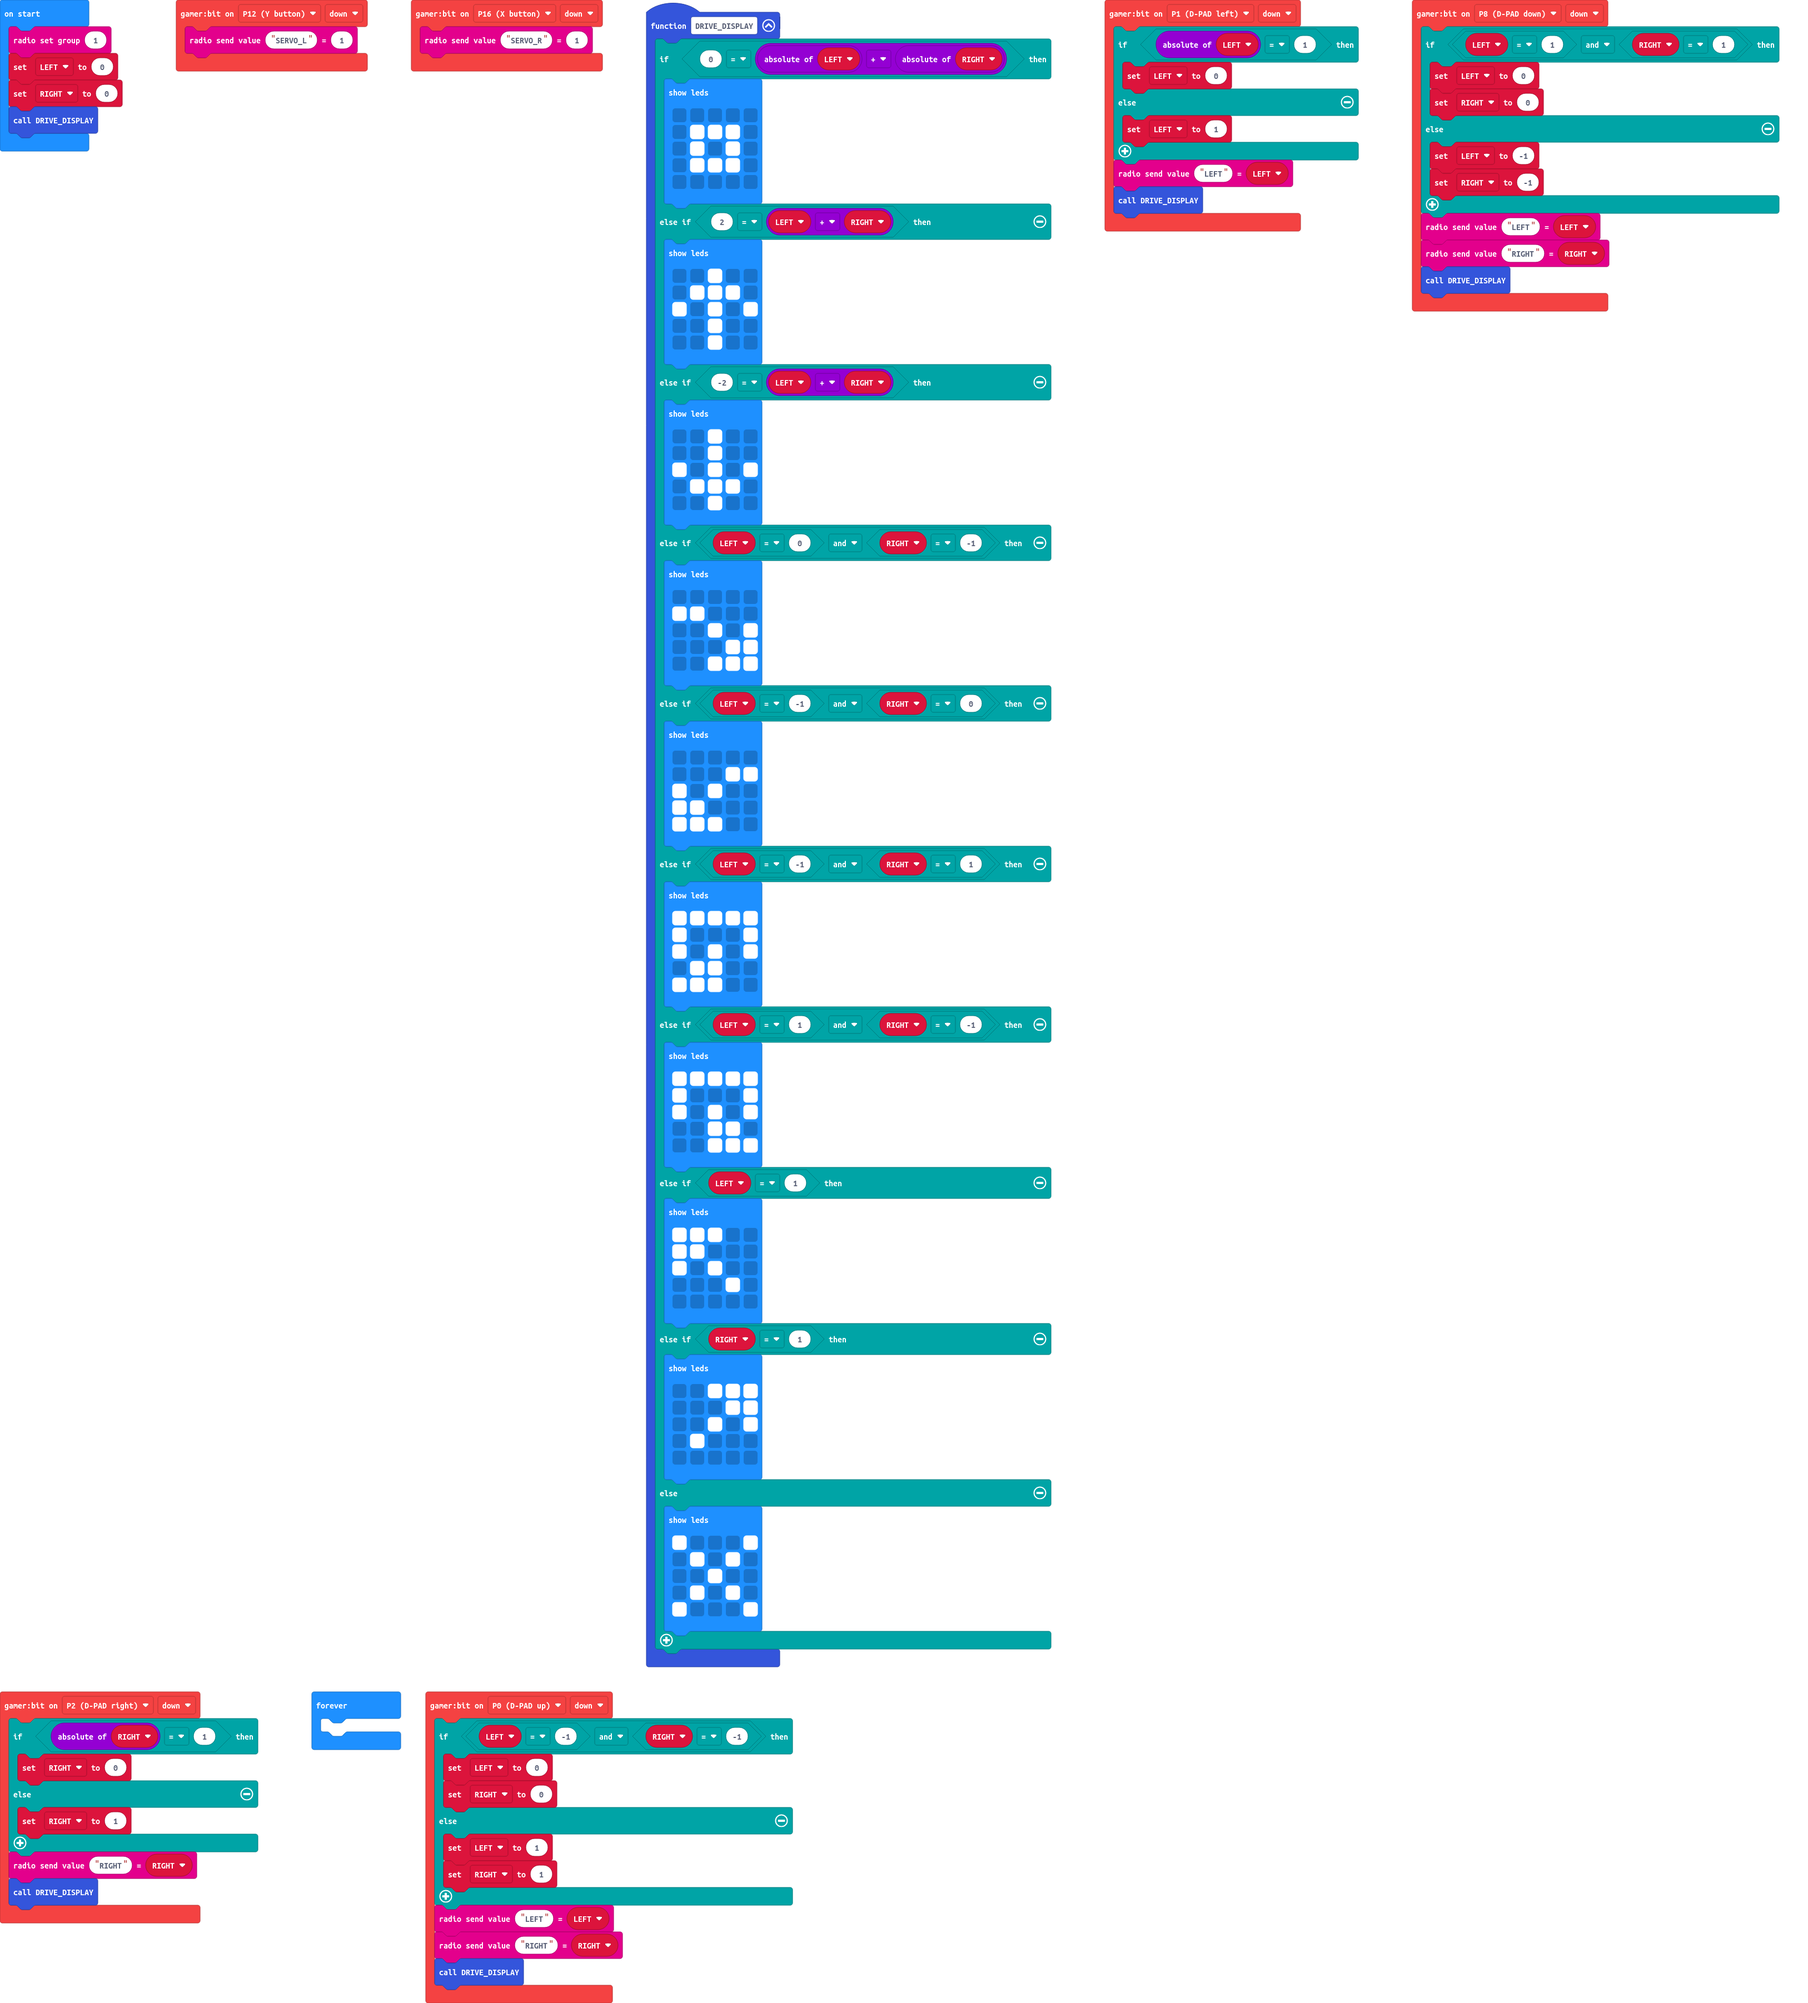
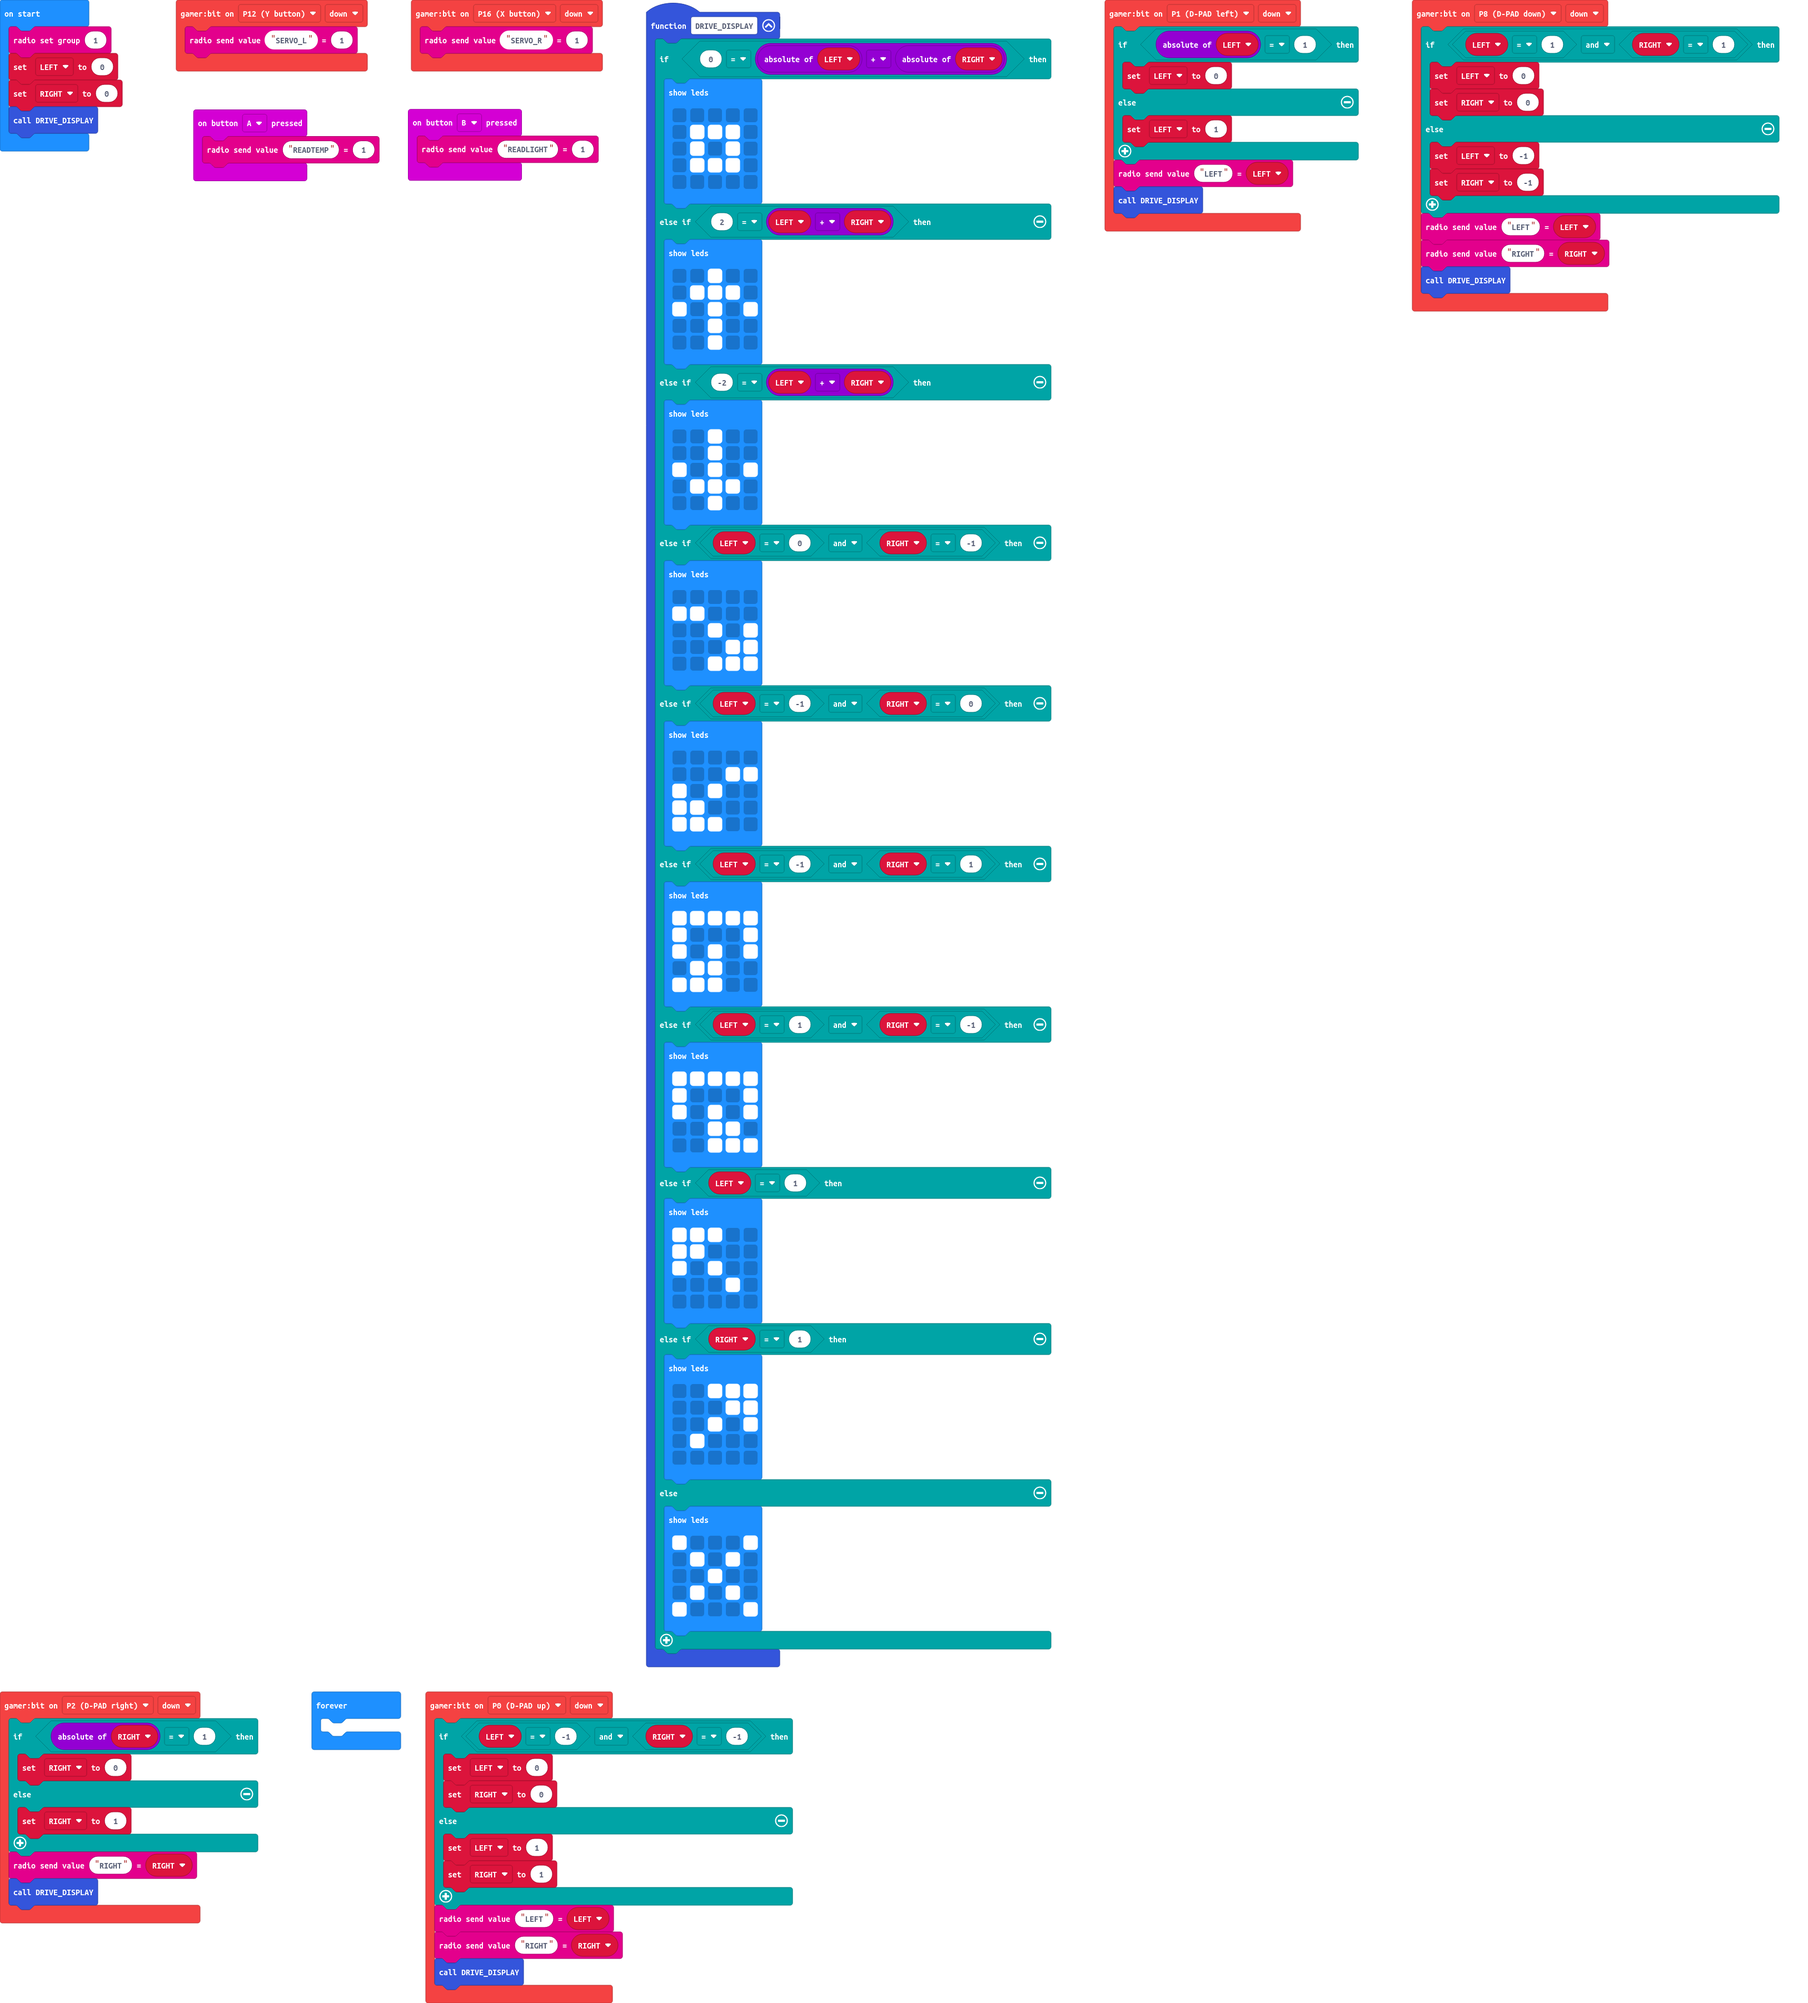
Update pxt.json, main.blocks, main.ts

Changed region(s): [[0.0931, 0.0311, 0.3415, 0.0932]]

diff --git a/main.ts b/main.ts
@@ -1,6 +1,9 @@
 gamerbit.onEvent(GamerBitPin.P12, GamerBitEvent.Down, function () {
     radio.sendValue("SERVO_L", 1)
 })
+input.onButtonPressed(Button.A, function () {
+    radio.sendValue("READTEMP", 1)
+})
 gamerbit.onEvent(GamerBitPin.P16, GamerBitEvent.Down, function () {
     radio.sendValue("SERVO_R", 1)
 })
@@ -95,6 +98,9 @@ gamerbit.onEvent(GamerBitPin.P1, GamerBitEvent.Down, function () {
     }
     radio.sendValue("LEFT", LEFT)
     DRIVE_DISPLAY()
+})
+input.onButtonPressed(Button.B, function () {
+    radio.sendValue("READLIGHT", 1)
 })
 gamerbit.onEvent(GamerBitPin.P8, GamerBitEvent.Down, function () {
     if (LEFT == 1 && RIGHT == 1) {
